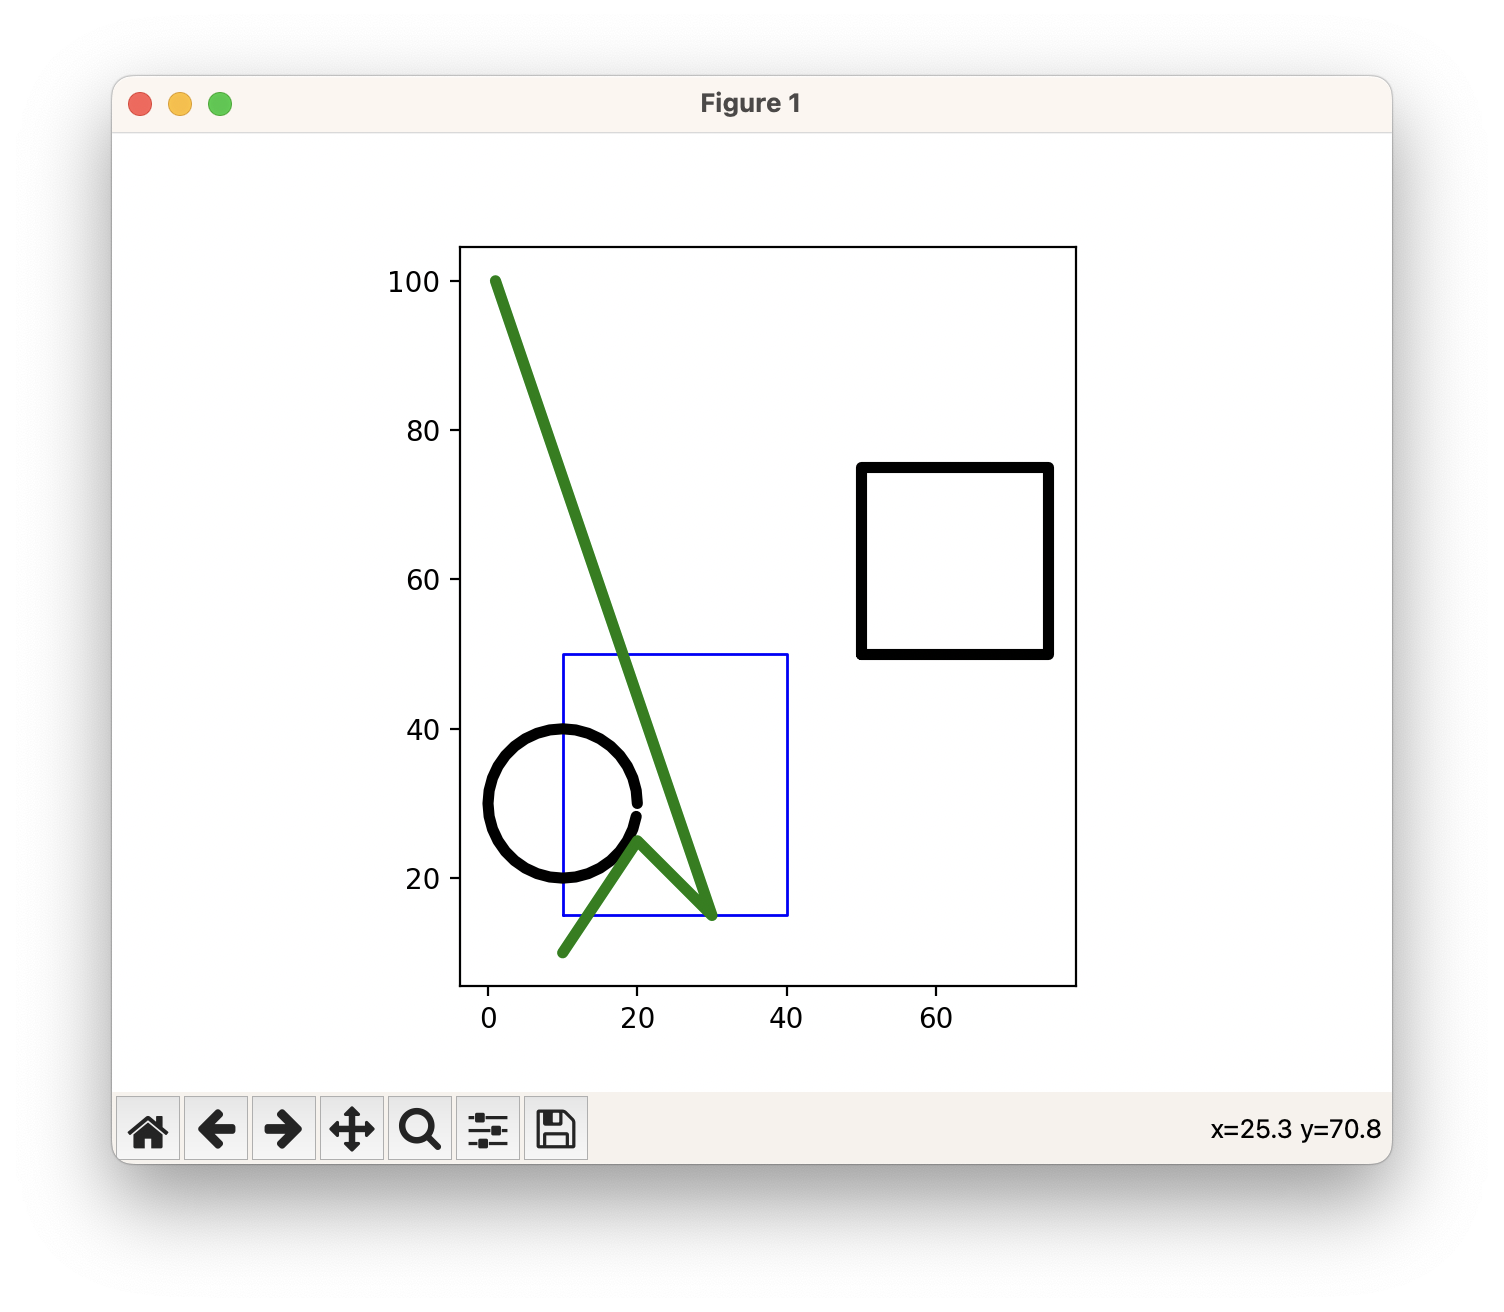
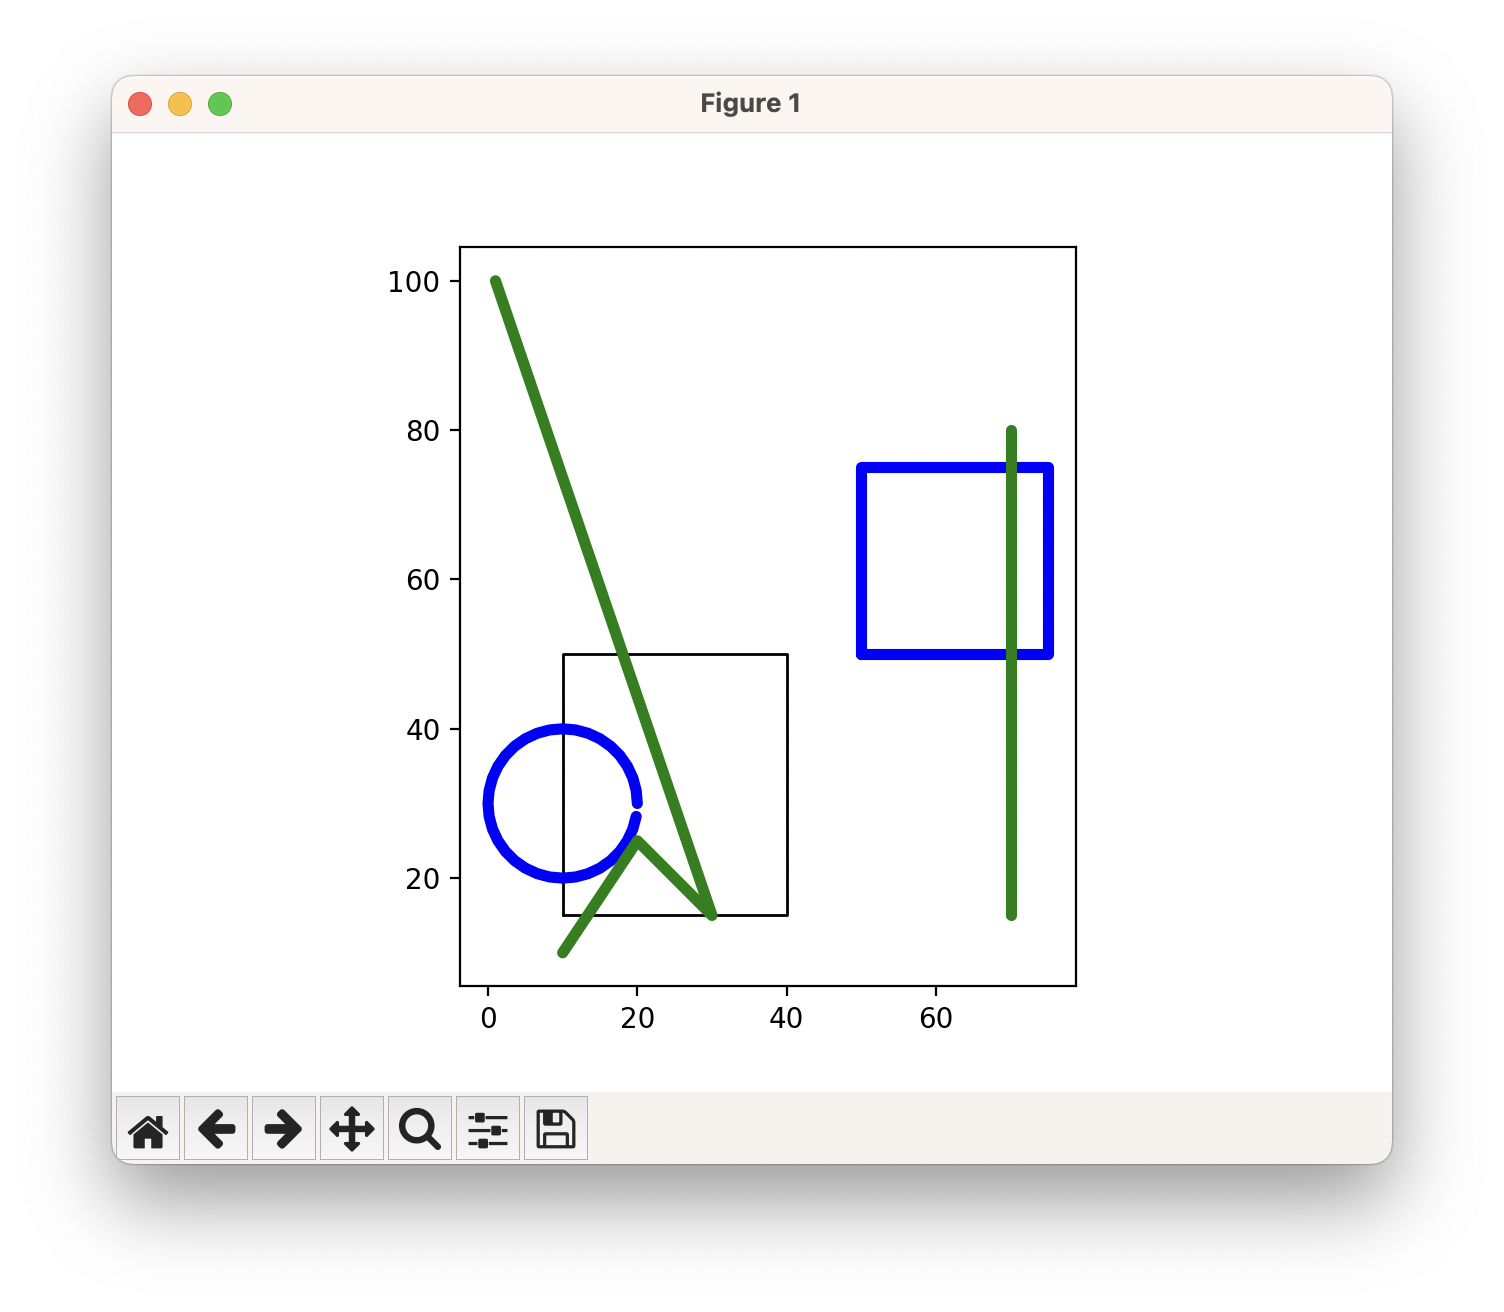
updated preview

diff --git a/sandbox/main.py b/sandbox/main.py
@@ -1,280 +1,43 @@
+# X Direction - 0 -> 230
+# Y Direction - 0 -> 160
+# Feed rate - 10000
+
+
 from gcode2dplotterart import Plotter2d
-import cv2
-import numpy as np
-from imutils import resize
-from math import floor
-from typing import List, Tuple
-from random import shuffle
-from collections import namedtuple
-from sklearn.cluster import KMeans
-
-
-def hex_to_rgb(hex: str):
-    hex = hex.lstrip("#")
-    return tuple(int(hex[i : i + 2], 16) for i in (0, 2, 4))
-
-
-Point = namedtuple("Point", ["row", "col"])
-
-"""
-Preface - numpy and cv2 are still a bit alien to me. The code here could be done better.
-1. Take in an image.
-2. Grayscale all of the pixels so that each pixel is represented by a number from 0 to 255.
-3. Bucket the pixels such that
-  - 0 -> A   becomes 0
-  - A -> B   becomes 1
-  - B -> C   becomes 2
-  - C -> 255 becomes 3
-4. Start with a random pixel in the image that hasn't been plotted.
-5. Add this point to the path
-6. Look to the neighboring pixels
-  - If a neighboring pixel, order randomly chosen, is of the same color, add it to the path.
-  - If the neighboring pixel hasn't been added to a path before, repeat step 6.
-  - If the neighboring pixel has been added to a path before, repeat step 4.
-  - If there are no neighboring pixels of the same color, repeat step 4.
-7. Continue until all points of all colors are plotted.
-Note
-- Make sure that the combination of X_SCALE, Y_SCALE, and the resized image aren't too big for the plotter area. 
-"""
-
-# These numbers can be changed in combination with the image size. Adds a bit of spacing since I use thicker
-# pens and they'd overlap.
-X_PIXELS_PER_PLOTTER_UNIT = 1 / 4
-Y_PIXELS_PER_PLOTTER_UNIT = 1 / 4
-
-
-# This function does not seem to bucket into each color.
-def evenly_distribute_pixels_per_nth_percent_of_grayscale_range(
-    img: cv2.typing.MatLike, n: int
-) -> List[List[int]]:
-    """
-    Take the range of grayscale (0 -> 255) and bucket it such that n% of the range is a bucket.
-    Arg:
-        `img` : cv2.typing.MatLike
-            The image to process
-        `n` : Number of colors to distribute pixels into
-    Returns
-    `   img` : List[List[int]]
-           Image mapped to n colors
-    """
-    bucket_segments = np.linspace(
-        0, 256, n + 1
-    )  # Use linspace to create evenly spaced buckets
-    grayscale_buckets = np.digitize(img, bucket_segments[:-1]) - 1
-
-    print(grayscale_buckets)
-
-    max_val = np.amax(grayscale_buckets)
-    print(max_val)
-
-    min_val = np.amin(grayscale_buckets)
-    print(min_val)
-
-    return grayscale_buckets
-
-
-# Something is off here. Might not be the kmeans algo, but something is.
-def kmeans_color_reduction(img: cv2.typing.MatLike, n: int) -> List[List[int]]:
-    colors = [hex_to_rgb(color_layer["color"]) for color_layer in COLOR_LAYERS]
-    h, w = img.shape
-    image_reshaped = img.reshape((h * w, 1))
-
-    # Use KMeans to find the closest colors
-    kmeans = KMeans(n_clusters=len(colors), random_state=0, n_init=10)
-    kmeans.fit(image_reshaped)
-    labels = kmeans.predict(image_reshaped)
-
-    # Replace each pixel with its closest color index
-    quantized_image_array = labels.reshape((h, w))
-
-    return quantized_image_array
-
-
-def evenly_distribute_pixels_per_color(
-    img: cv2.typing.MatLike, n: int
-) -> List[List[int]]:
-    """
-    Ensures that each color has the same number of pixels.
-    Arg:
-        `img` : cv2.typing.MatLike
-            The image to process
-        `n` : Number of colors to distribute pixels into
-    Returns
-    `   img` : List[List[int]]
-           Image mapped to n colors
-    """
-
-    total_pixels = img.size
-    pixel_bins = []
-    histogram, bins = np.histogram(img.ravel(), 256, (0, 256))
-    count = 0
-    for pixel_value, pixel_count in enumerate(histogram):
-        if count >= total_pixels / (n):
-            count = 0
-            pixel_bins.append(pixel_value)
-        count += pixel_count
-
-    return np.subtract(np.digitize(img, pixel_bins), 0)
-
-
-def resize_image_for_plotter(filename: str) -> List[List[int]]:
-    img = cv2.imread(filename)
-    img = cv2.cvtColor(img, cv2.COLOR_BGR2GRAY)
-
-    # The following math will ensure that the image is scaled to the plotter size and the remaining math
-    # throughout the program will work.
-    plotter_ratio = "landscape" if plotter.width > plotter.height else "portrait"
-    # It appears shape is (columns, rows)
-    img_ratio = "landscape" if img.shape[1] > img.shape[0] else "portrait"
-    if (
-        plotter_ratio == "landscape"
-        and img_ratio == "landscape"
-        or plotter_ratio == "portrait"
-        and img_ratio == "landscape"
-    ):
-        img = resize(img, width=floor(plotter.width * X_PIXELS_PER_PLOTTER_UNIT))
-    elif (
-        plotter_ratio == "portrait"
-        and img_ratio == "portrait"
-        or plotter_ratio == "landscape"
-        and img_ratio == "portrait"
-    ):
-        print("resizing height")
-        img = resize(img, height=floor(plotter.height * Y_PIXELS_PER_PLOTTER_UNIT))
-
-    print("resized to ", img.shape)
-    return img
-
 
 plotter = Plotter2d(
-    title="Horizontal Line Art",
-    units="mm",
+    title="Plotter2d Quickstart",
     x_min=0,
-    x_max=240,
+    x_max=200,
     y_min=0,
-    y_max=170,
+    y_max=200,
     feed_rate=10000,
     output_directory="./output",
-    include_border_layer=True,
+    include_border_layer=False,
     include_preview_layer=True,
-    handle_out_of_bounds="Warning",  # It appears that some points end up outside of bounds so scale down.
+    handle_out_of_bounds="Warning",
 )
 
-# Note to self - I'm currently using the K-Means Algorithm to handle the colors.
-# The `color` key below should match the original image's colors to result in successful clustering.
-# The title is the type of marker used to plot that.
-COLOR_LAYERS = [
-    {"color": "#ff0000", "title": "Red"},
-    {"color": "#ff8000", "title": "Orange"},
-    {"color": "#ffff00", "title": "Yellow"},
-    {"color": "#00ff00", "title": "Green"},
-    {"color": "#0000ff", "title": "Blue"},
-    {"color": "#8000ff", "title": "Purple"},
-]
-for index, layer in enumerate(COLOR_LAYERS):
-    plotter.add_layer(layer["title"], color=layer["color"], line_width=3)
+black_pen_layer = "black_pen_layer"
+blue_marker_layer = "blue_marker_layer"
+green_marker_layer = "green_marker_layer"
 
-input_filename = "test.jpg"
+plotter.add_layer(black_pen_layer, color="black", line_width=1.0)
+plotter.add_layer(blue_marker_layer, color="blue", line_width=4)
+plotter.add_layer(green_marker_layer, color="#027F00", line_width=4)
 
-# Works with color PNGs exported from Lightroom and Photoshop. Could learn some more about reading images
-resized_image = resize_image_for_plotter(input_filename)
-color_reduced_image = kmeans_color_reduction(resized_image, n=len(COLOR_LAYERS))
-
-
-def get_neighboring_points(row_index: int, col_index: int) -> List[Tuple[int, int]]:
-    """
-    Gets the neighboring points of a given point. The neighboring points are shuffled so that the order
-    in which they are checked is random. Will not return points outside of teh plotter bounds.
-    Args:
-        `row_index` : int
-            The row index of the point
-        `col_index` : int
-            The column index of the point
-    Returns:
-        `neighboring_points` : List[Tuple[int, int]]
-            The neighboring points, in the format of `(row_index, col_index)`.
-    """
-
-    total_rows, total_cols = color_reduced_image.shape
-
-    neighboring_points = []
-    for row in range(-1, 2):
-        for col in range(-1, 2):
-            if row == 0 and col == 0:
-                continue
-
-            if (
-                row_index + row < 0
-                or row_index + row + 1 >= total_rows
-                or col_index + col < 0
-                or col_index + col + 1 >= total_cols
-            ):
-                continue
-
-            neighboring_points.append(Point(row_index + row, col_index + col))
-    shuffle(neighboring_points)
-    return neighboring_points
-
-
-def add_path_to_plotter(path: List[Point], color: str):
-    """
-    The plotter expects the points to be in the format of (x, y) and the image is in the format of (row, col)
-    Additionally the image was scaled down to get less lines, now we need to scale it back up to take the total
-    space of the plotter.
-    """
-    scaled_path = [
-        (col / Y_PIXELS_PER_PLOTTER_UNIT, row / X_PIXELS_PER_PLOTTER_UNIT)
-        for row, col in path
-    ]
-    plotter.layers[COLOR_LAYERS[current_color_index]["title"]].add_path(scaled_path)
-
-
-remaining_points_to_process = set()
-for row_index, row in enumerate(color_reduced_image):
-    for col_index, value in enumerate(row):
-        remaining_points_to_process.add(Point(row_index, col_index))
-
-current_point = remaining_points_to_process.pop()
-current_path = [current_point]
-current_color_index = color_reduced_image[current_point.row][current_point.col]
-
-while len(remaining_points_to_process) > 0:
-    potential_next_points = get_neighboring_points(
-        row_index=current_point.row, col_index=current_point.col
-    )
-
-    for potential_next_point in potential_next_points:
-        current_point = None
-
-        if (
-            color_reduced_image[potential_next_point.row][potential_next_point.col]
-            == current_color_index
-        ):
-            current_point = potential_next_point
-
-            if current_point in remaining_points_to_process:
-                # Prefer a point that hasn't been added to a path. This should make paths, on average, longer.
-                break
-
-    if current_point is None:
-        add_path_to_plotter(current_path, current_color_index)
-        current_point = remaining_points_to_process.pop()
-        current_path = [current_point]
-        current_color_index = color_reduced_image[current_point.row][current_point.col]
-        continue
-
-    if current_point and current_point not in remaining_points_to_process:
-        current_path.append(current_point)
-        add_path_to_plotter(current_path, current_color_index)
-        current_point = remaining_points_to_process.pop()
-        current_path = [current_point]
-        current_color_index = color_reduced_image[current_point.row][current_point.col]
-        continue
-
-    if current_point and current_point in remaining_points_to_process:
-        current_path.append(current_point)
-        remaining_points_to_process.remove(current_point)
-        continue
+plotter.layers[black_pen_layer].add_rectangle(
+    x_start=10, y_start=15, x_end=40, y_end=50
+)
+plotter.layers[black_pen_layer].add_point(x=30, y=40)
+plotter.layers[blue_marker_layer].add_circle(x_center=10, y_center=30, radius=10)
+plotter.layers[blue_marker_layer].add_rectangle(
+    x_start=50, y_start=50, x_end=75, y_end=75
+)
+plotter.layers[green_marker_layer].add_path(
+    [(10, 10), (20, 25), (30, 15), (1, 100)]
+).add_line(x_start=70, y_start=80, x_end=70, y_end=15)
 
 plotter.preview()
+
 plotter.save()
